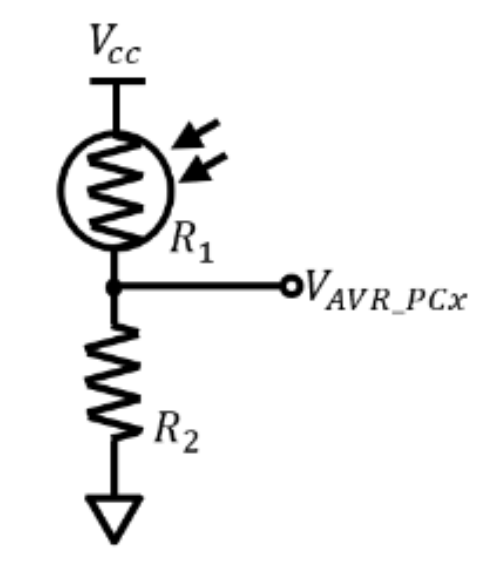
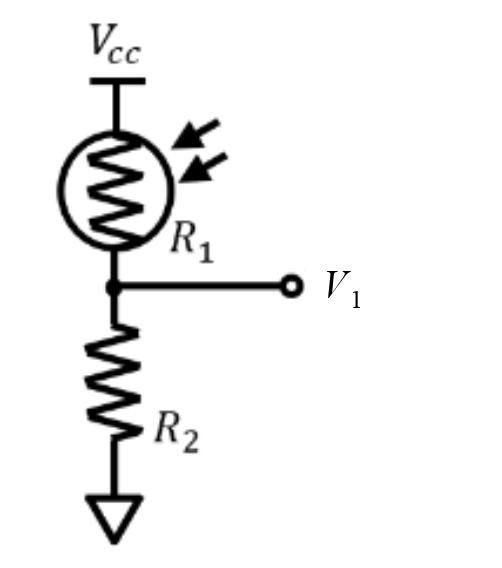
Day 16 book: Petra's pass 2 (20 comments) applied; the servo check out of the study, the sensor-family Part deleted (it is the reading), Parts renumbered 1-5, Lab 8 Figure 1 relabeled V_1, the nonlinearity in short sentences with the plot credited to the guide and the 0.6 to the datasheet, complete 

Changed region(s): [[0.5976, 0.4489, 0.9263, 0.5687]]

diff --git a/plans/day16.md b/plans/day16.md
@@ -255,3 +255,23 @@ divider figure; the datasheet's test conditions per row (illuminated under
 a row lists a range; "applied voltage" is the maximum that may be applied;
 the phone-flashlight sentence deleted; the guide linked; her tracker
 sentence, plus that real trackers compute the sun's position.
+
+## Petra's pass 2 (2026-09-08): 20 comments applied
+
+The servo check is gone from Part 2 ("the technical study of photocells
+does not use the servo"); Part 2 is one sentence plus the pot coming off
+A0 with nothing powered, then Lab 8's own deliverables. Part 3 (her slide
+6, the sensor family) is deleted: it is the reading. The Parts are now 1
+(the divider question and the nonlinearity), 2 (Part 1 of Lab 8), 3 (her
+slides 10-14: the servo test setup recalled in one sentence, cups, clips,
+the ultimate setup), 4 (her slide 15, read and discuss), 5 (lab time).
+Budget: 3+2+10+38+17+20+15+5 = 110. Lab 8 Figure 1 relabeled V_1 in the
+image. The reading: photocells age (no light-history claim), no "which of
+two cells receives more light" (contradicts the 50%), "contains", "one
+page long", "no polarity", "look at in class on a plot". Part 1: one intro
+sentence with the figure and the names; the nonlinearity in short
+sentences, the plot credited to the guide and the 0.6 to the datasheet's
+Sensitivity row, the "factor of 10 in light, factor of about 4 in
+resistance" sentence in words. Part 4: complete sentences, "the tracking
+loop, the one that points the arm at the light", "a controller gain K".
+Part 5: "may all attract". Reference: the swapped-divider formula removed.
